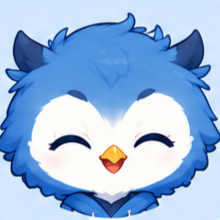
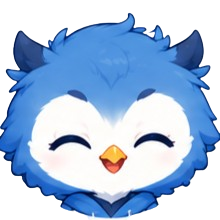
Fix: @method PUT profil, navbar logo_web, login splash animation, NIM 9-digit unique

diff --git a/resources/views/layouts/app.blade.php b/resources/views/layouts/app.blade.php
@@ -166,6 +166,40 @@
 <?php header('Cache-Control: no-cache, no-store, must-revalidate; max-age=0'); header('Pragma: no-cache'); header('Expires: 0'); ?>
 <body class="font-sans antialiased" x-data="{ sidebarOpen: false }">
 
+    <!-- Login Success Splash -->
+    @if(session('login_success'))
+    <div id="loginSplash" style="position:fixed;inset:0;z-index:9999;background:#fff;display:flex;flex-direction:column;align-items:center;justify-content:center;gap:16px;transition:opacity 0.5s ease;">
+        <img src="{{ asset('images/login_berhasil.png') }}" alt="Login Berhasil"
+             style="width:180px;height:180px;object-fit:contain;mix-blend-mode:multiply;animation:bounceIn 0.6s ease;">
+        <div style="text-align:center;">
+            <p style="font-family:'Plus Jakarta Sans',sans-serif;font-weight:800;font-size:1.25rem;color:#0f172a;margin-bottom:4px;">Selamat Datang!</p>
+            <p style="font-size:0.875rem;color:#64748b;">{{ auth()->user()->name }}</p>
+        </div>
+        <div style="display:flex;gap:6px;margin-top:4px;">
+            <span style="width:8px;height:8px;border-radius:50%;background:#0284c7;animation:dot 1.2s 0s infinite;"></span>
+            <span style="width:8px;height:8px;border-radius:50%;background:#0284c7;animation:dot 1.2s 0.2s infinite;"></span>
+            <span style="width:8px;height:8px;border-radius:50%;background:#0284c7;animation:dot 1.2s 0.4s infinite;"></span>
+        </div>
+    </div>
+    <style>
+        @keyframes bounceIn {
+            0% { transform: scale(0.5); opacity: 0; }
+            70% { transform: scale(1.1); opacity: 1; }
+            100% { transform: scale(1); }
+        }
+        @keyframes dot {
+            0%, 80%, 100% { transform: scale(0.6); opacity: 0.4; }
+            40% { transform: scale(1); opacity: 1; }
+        }
+    </style>
+    <script>
+        setTimeout(function() {
+            var splash = document.getElementById('loginSplash');
+            if (splash) { splash.style.opacity = '0'; setTimeout(function(){ splash.remove(); }, 500); }
+        }, 1800);
+    </script>
+    @endif
+
     <!-- Mobile overlay -->
     <div x-show="sidebarOpen" x-transition:enter="transition-opacity ease-linear duration-150"
          x-transition:enter-start="opacity-0" x-transition:enter-end="opacity-100"

diff --git a/resources/views/welcome.blade.php b/resources/views/welcome.blade.php
@@ -135,7 +135,7 @@
 <nav class="navbar">
     <div class="navbar-inner">
         <a href="#" class="logo">
-            <img src="{{ asset('images/logo_stikom.png') }}" alt="Logo STIKOM Yos Sudarso" style="width:36px; height:36px; object-fit:contain; flex-shrink:0;">
+            <img src="{{ asset('images/logo_web.png') }}" alt="SiPeka" style="width:36px; height:36px; object-fit:contain; flex-shrink:0; mix-blend-mode:multiply;">
             <div>
                 <div class="logo-text">SiPeka</div>
                 <div style="font-size: 0.65rem; color: #94a3b8; line-height: 1; margin-top: 1px;">STIKOM Yos Sudarso</div>

diff --git a/resources/views/profile/edit.blade.php b/resources/views/profile/edit.blade.php
@@ -36,6 +36,7 @@
 
                 <form method="POST" action="{{ route('profile.update') }}" class="space-y-5" enctype="multipart/form-data">
                     @csrf
+                    @method('PUT')
 
                     @if(auth()->user()->isMahasiswa())
                         <div>

diff --git a/app/Http/Controllers/Auth/GoogleAuthController.php b/app/Http/Controllers/Auth/GoogleAuthController.php
@@ -94,6 +94,7 @@ class GoogleAuthController extends Controller
 
         Auth::login($user, true);
         $request->session()->regenerate();
+        $request->session()->flash('login_success', true);
 
         return redirect()->intended(route('dashboard'));
     }

diff --git a/app/Http/Controllers/Auth/AuthenticatedSessionController.php b/app/Http/Controllers/Auth/AuthenticatedSessionController.php
@@ -47,6 +47,7 @@ class AuthenticatedSessionController extends Controller
         }
 
         $request->session()->regenerate();
+        $request->session()->flash('login_success', true);
 
         return redirect()->intended(route('dashboard'));
     }
